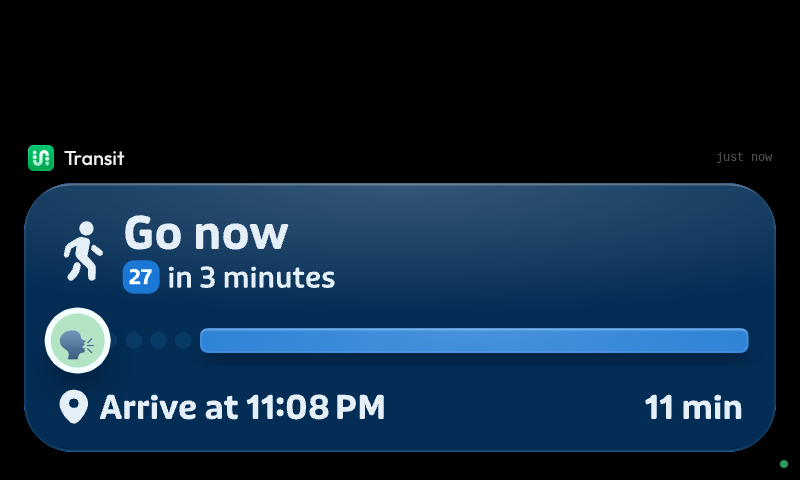
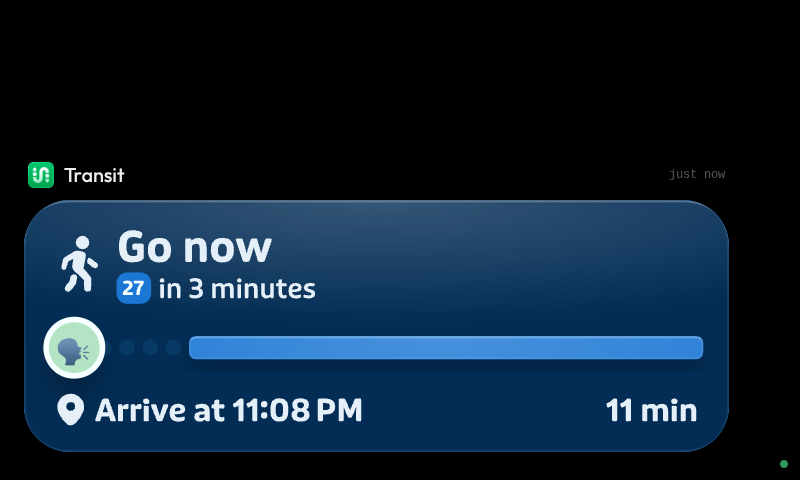
Explain setup problems on the Car Thing; keep content clear of the knob
The extension now diagnoses why it cannot mirror activities (not a Mac, macOS
older than 26, no Full Disk Access, missing extension permission, iPhone Live
Activities off, no paired iPhone, nothing synced yet) and the Car Thing shows
the steps to fix it. Layout reserves the strip the knob covers, and the README
screenshots are composited onto the device frame at its true geometry.

Changed region(s): [[0.0312, 0.2812, 0.9688, 0.9688], [0.9062, 0.3125, 0.9688, 0.3438]]

diff --git a/apps/live-activities/extension/diagnose.ts b/apps/live-activities/extension/diagnose.ts
@@ -1,0 +1,119 @@
+// turns setup mistakes into something a user can act on. the car thing shows these when it has nothing else to show,
+// and the desktop app's log gets the same text.
+
+import { readdirSync, readFileSync } from 'node:fs';
+import { homedir, release } from 'node:os';
+import { join } from 'node:path';
+
+import { parseBplist } from './archive/bplist';
+
+export type Problem = {
+  code: 'not-macos' | 'old-macos' | 'no-full-disk-access' | 'permission' | 'live-activities-off' | 'no-iphone' | 'never-synced';
+  title: string;
+  detail: string;
+  steps: string[];
+};
+
+// darwin 25 is macOS 26, the first release that mirrors iPhone Live Activities
+const MIN_DARWIN = 25;
+
+const GROUPS = () => join(homedir(), 'Library/Group Containers');
+
+const problems = {
+  notMacos: (platform: string): Problem => ({
+    code: 'not-macos',
+    title: 'Live Activities needs a Mac',
+    detail: `This computer runs ${platform}. Only macOS receives your iPhone's Live Activities.`,
+    steps: ['Install the bridgething desktop app on a Mac with macOS 26 or later', 'Install Live Activities there'],
+  }),
+  oldMacos: (darwin: number): Problem => ({
+    code: 'old-macos',
+    title: 'This Mac needs macOS 26',
+    detail: `iPhone Live Activities on the Mac arrived in macOS 26 Tahoe; this Mac runs macOS ${darwin + 1}.`,
+    steps: ['Update the Mac in System Settings > General > Software Update'],
+  }),
+  noFullDiskAccess: (): Problem => ({
+    code: 'no-full-disk-access',
+    title: 'Give bridgething Full Disk Access',
+    detail: 'macOS keeps Live Activities in protected folders that only apps with Full Disk Access can read.',
+    steps: [
+      'On the Mac, open System Settings > Privacy & Security > Full Disk Access',
+      'Turn on bridgething (use + to add it from Applications if it is missing)',
+      'Quit and reopen the bridgething desktop app',
+    ],
+  }),
+  permission: (what: string): Problem => ({
+    code: 'permission',
+    title: 'Live Activities is missing a permission',
+    detail: `The extension was not allowed to ${what}.`,
+    steps: ['In the bridgething desktop app, reinstall Live Activities and approve its permissions'],
+  }),
+  off: (): Problem => ({
+    code: 'live-activities-off',
+    title: 'iPhone Live Activities are off on this Mac',
+    detail: 'The Mac is not receiving Live Activities from your iPhone.',
+    steps: ['On the Mac, open System Settings and search for "Live Activities"', 'Turn on Live Activities from iPhone'],
+  }),
+  noIphone: (): Problem => ({
+    code: 'no-iphone',
+    title: 'No iPhone is connected to this Mac',
+    detail: 'The Mac shows Live Activities from an iPhone signed in to the same Apple Account.',
+    steps: [
+      'Sign in to the same Apple Account on the iPhone (iOS 26 or later) and the Mac',
+      'Keep Bluetooth and Wi-Fi on for both, then search System Settings for "Live Activities"',
+    ],
+  }),
+  neverSynced: (): Problem => ({
+    code: 'never-synced',
+    title: 'Waiting for a first Live Activity',
+    detail: 'This Mac has not received any Live Activity from your iPhone yet.',
+    steps: ['Start one on the iPhone, for example a timer in an app that shows Live Activities', 'It should appear in the Mac menu bar, then here'],
+  }),
+};
+
+const notCapable = (err: unknown) => (err as Error)?.name === 'NotCapable';
+
+/** the first thing standing between this mac and working live activities, or null when everything checks out */
+export function diagnose(): Problem | null {
+  if (process.platform !== 'darwin') return problems.notMacos(process.platform === 'win32' ? 'Windows' : process.platform);
+  try {
+    const darwin = parseInt(release(), 10);
+    if (darwin && darwin < MIN_DARWIN) return problems.oldMacos(darwin);
+  } catch (err) {
+    if (notCapable(err)) return problems.permission('read the macOS version');
+  }
+
+  // listing the container tells the cases apart; sqlite only ever says "unable to open database file"
+  try {
+    readdirSync(join(GROUPS(), 'group.com.apple.liveactivitiesd'));
+  } catch (err) {
+    if (notCapable(err)) return problems.permission('read the Live Activities store');
+    const code = (err as NodeJS.ErrnoException).code;
+    if (code === 'EPERM' || code === 'EACCES') return problems.noFullDiskAccess();
+    if (code !== 'ENOENT') throw err;
+    return settingsProblem() ?? problems.neverSynced();
+  }
+  return settingsProblem();
+}
+
+// control center records whether iphone live activities are on and whether an iphone is paired
+function settingsProblem(): Problem | null {
+  try {
+    const prefs = parseBplist(new Uint8Array(readFileSync(join(homedir(), 'Library/Preferences/com.apple.controlcenter.plist'))));
+    if (!prefs || typeof prefs !== 'object' || Array.isArray(prefs) || prefs instanceof Uint8Array || prefs instanceof Date) return null;
+    if (prefs.RemoteLiveActivitiesEnabled === false) return problems.off();
+    const state = prefs.LiveActivityState;
+    if (state instanceof Uint8Array) {
+      const s = JSON.parse(new TextDecoder().decode(state));
+      if (s.Enabled === false || s.SettingEnabled === false) return problems.off();
+      if (s.CompanionPaired === false) return problems.noIphone();
+    }
+  } catch {}
+  return null;
+}
+
+/** classifies an error from reading the stores after setup looked fine */
+export function problemFromError(err: unknown): Problem {
+  if (notCapable(err)) return problems.permission('read the Live Activities store');
+  return diagnose() ?? problems.noFullDiskAccess();
+}

diff --git a/apps/live-activities/src/App.tsx b/apps/live-activities/src/App.tsx
@@ -19,7 +19,8 @@ type Activity = {
   views?: Views;
 };
 
-type Snapshot = { type: 'snapshot'; at: number; icons: Record<string, string>; activities: Activity[] };
+type Problem = { code: string; title: string; detail: string; steps: string[] };
+type Snapshot = { type: 'snapshot'; at: number; icons: Record<string, string>; activities: Activity[]; problem?: Problem | null };
 
 // the bridge heartbeats every 5s, so silence past this means the mac side is gone
 const STALE_LINK_MS = 12_000;
@@ -29,8 +30,12 @@ const STALE_LINK_MS = 12_000;
 // our backdrop is black, so those are the values used, for every app.
 const UNTINTED_GLASS = '#131313';
 const glass = (c: string) => `hsl(from ${c} h 100% 50%)`;
+// the knob overhangs the right edge of the 800px panel and hides x >= ~753 through the upper half of the screen,
+// so content is laid out in the visible width and the strip under the knob stays empty
 const SCREEN_W = 800;
+const KNOB_INSET = 47;
 const PAD = 24;
+const CONTENT_W = SCREEN_W - KNOB_INSET - PAD * 2;
 
 function since(ms: number | null, now: number): string {
   if (!ms) return '';
@@ -249,6 +254,7 @@ export default function App() {
   const [activities, setActivities] = useState<Activity[]>([]);
   const [icons, setIcons] = useState<Record<string, string>>({});
   const [lastSeen, setLastSeen] = useState(0);
+  const [problem, setProblem] = useState<Problem | null>(null);
   const [now, setNow] = useState(Date.now());
   const views = useRef(new Map<string, { rev: string; views: Views }>());
   const lastHello = useRef(0);
@@ -268,6 +274,7 @@ export default function App() {
       const msg = raw as Snapshot;
       if (msg?.type !== 'snapshot') return;
       setLastSeen(Date.now());
+      setProblem(msg.problem ?? null);
       if (msg.icons) setIcons(prev => ({ ...prev, ...msg.icons }));
       let missing = false;
       const merged = msg.activities.map(a => {
@@ -380,7 +387,8 @@ export default function App() {
               <div key={a.id} data-row data-phase={phase} className="la-row">
                 <div className="la-row-inner">
                   <div
-                    className={`flex flex-col gap-2.5 px-6 py-3 transition-opacity duration-500 ${stale ? 'opacity-50' : ''}`}
+                    style={{ paddingLeft: PAD, paddingRight: PAD + KNOB_INSET }}
+                    className={`flex flex-col gap-2.5 py-3 transition-opacity duration-500 ${stale ? 'opacity-50' : ''}`}
 >
                     <div className="flex items-center gap-2.5 px-1">
                       <Icon src={icons[a.bundleId]} name={a.appName} size={26} />
@@ -390,7 +398,7 @@ export default function App() {
                         {since(a.updatedAt ?? a.startedAt, now)}
                       </span>
                     </div>
-                    <Card a={a} width={SCREEN_W - PAD * 2} maxH={380} />
+                    <Card a={a} width={CONTENT_W} maxH={380} />
                   </div>
                 </div>
               </div>
@@ -399,15 +407,35 @@ export default function App() {
         </div>
       </div>
       <div
+        style={{ paddingRight: KNOB_INSET }}
         className={`pointer-events-none absolute inset-0 flex flex-col items-center justify-center gap-3 transition-opacity duration-500 ${empty ? 'opacity-100' : 'opacity-0'}`}>
-        <div className="font-display text-screen-title font-medium text-soft">No Live Activities</div>
-        <div className="max-w-[560px] text-center font-mono text-hint leading-relaxed text-dim">
-          {conn !== 'open'
-            ? conn
-            : linked
-              ? 'they show up here as soon as your iPhone starts one'
-              : 'needs the bridgething desktop app on a Mac running macOS 26, with full disk access and this app installed there'}
-        </div>
+        {linked && problem ? (
+          <div className="flex max-w-[600px] flex-col gap-4 px-8">
+            <div className="font-display text-screen-title leading-tight font-medium">{problem.title}</div>
+            <div className="text-row text-soft">{problem.detail}</div>
+            <ol className="flex flex-col gap-2">
+              {problem.steps.map((step, i) => (
+                <li key={i} className="flex gap-3 text-row text-near">
+                  <span className="grid h-6 w-6 shrink-0 place-items-center rounded-full bg-neutral-soft font-mono text-hint">
+                    {i + 1}
+                  </span>
+                  <span>{step}</span>
+                </li>
+              ))}
+            </ol>
+          </div>
+        ) : (
+          <>
+            <div className="font-display text-screen-title font-medium text-soft">No Live Activities</div>
+            <div className="max-w-[560px] text-center font-mono text-hint leading-relaxed text-dim">
+              {conn !== 'open'
+                ? conn
+                : linked
+                  ? 'they show up here as soon as your iPhone starts one'
+                  : 'needs the bridgething desktop app on a Mac running macOS 26, with full disk access and this app installed there'}
+            </div>
+          </>
+        )}
       </div>
     </div>
   );

diff --git a/apps/live-activities/extension/main.ts b/apps/live-activities/extension/main.ts
@@ -5,6 +5,7 @@
 import { asJson, defineExtension, json, type Device, type ExtensionContext } from '@bridgething/extension';
 
 import { readArchive, renderView } from './archive/decode';
+import { diagnose, problemFromError, type Problem } from './diagnose';
 import { readActivities, watchActivities, type MirroredActivity } from './source';
 import { bringForward, restore } from './switcher';
 
@@ -22,6 +23,7 @@ type Rendered = { rev: string; views: Partial<Record<ViewKey, View>>; texts: str
 // liveactivitiesd's row lands a second or two before chronod's archive; wait this long before falling back to text
 const ARCHIVE_GRACE_MS = 8000;
 const HEARTBEAT_MS = 5000;
+const RECHECK_MS = 10_000;
 
 const revOf = (a: MirroredActivity) => `${a.archivePath}:${a.archiveMtime}:${a.updatedAt}`;
 
@@ -62,6 +64,15 @@ function start(ctx: ExtensionContext) {
   const rendered = new Map<string, Rendered>();
   const firstSeen = new Map<string, number>();
   let tookOver = false;
+  let problem: Problem | null = null;
+
+  const setProblem = (next: Problem | null) => {
+    if (next?.code === problem?.code) return;
+    problem = next;
+    if (next) ctx.log.error(`${next.title}. ${next.detail} ${next.steps.join('; ')}.`);
+    else ctx.log.info('live activity stores are readable');
+    ctx.broadcast(snapshot('all'));
+  };
 
   const ready = (a: MirroredActivity) => {
     const v = rendered.get(a.id)?.views;
@@ -75,6 +86,7 @@ function start(ctx: ExtensionContext) {
     return json({
       type: 'snapshot',
       at: Date.now(),
+      problem,
       icons: Object.fromEntries(
         shown.filter(a => full(a.id) && icons.get(a.bundleId)).map(a => [a.bundleId, icons.get(a.bundleId)!]),
       ),
@@ -104,6 +116,7 @@ function start(ctx: ExtensionContext) {
     running = true;
     try {
       const next = readActivities();
+      if (problem) setProblem(null);
       const before = new Set(shown.map(a => a.id));
       const changed = new Set<string>();
       for (const a of next) {
@@ -134,7 +147,7 @@ function start(ctx: ExtensionContext) {
       if (started.length && autoOpen()) tookOver = (await bringForward(ctx.webapp.id)) > 0 || tookOver;
       if (ended && tookOver) (await restore(ctx.webapp.id), (tookOver = false));
     } catch (err) {
-      ctx.log.error(`cannot read live activities; is full disk access granted? ${(err as Error).message}`);
+      setProblem(problemFromError(err));
     } finally {
       running = false;
       if (again) (again = false), void refresh();
@@ -149,16 +162,32 @@ function start(ctx: ExtensionContext) {
     if (asJson<{ type?: string }>(message)?.type === 'hello') sendAll(device);
   });
 
-  if (typeof process !== 'undefined' && process.platform !== 'darwin') {
-    ctx.log.warn('live activities are only mirrored on macOS');
-    return () => {};
-  }
-  const stopWatching = watchActivities(() => void refresh());
   const heartbeat = setInterval(() => ctx.broadcast(snapshot(new Set())), HEARTBEAT_MS);
-  void refresh();
+  let stopWatching: (() => void) | undefined;
+  // watching needs the stores to be readable; keep checking until they are, so granting access needs no restart
+  const tryStart = () => {
+    let found: Problem | null;
+    try {
+      found = diagnose();
+    } catch (err) {
+      found = problemFromError(err);
+    }
+    if (found && found.code !== 'never-synced') return setProblem(found);
+    setProblem(found);
+    if (stopWatching) return void refresh();
+    try {
+      stopWatching = watchActivities(() => void refresh());
+    } catch (err) {
+      return setProblem(problemFromError(err));
+    }
+    void refresh();
+  };
+  tryStart();
+  const recheck = setInterval(() => (problem || !stopWatching) && tryStart(), RECHECK_MS);
   return () => {
-    stopWatching();
+    stopWatching?.();
     clearInterval(heartbeat);
+    clearInterval(recheck);
   };
 }
 

diff --git a/README.md b/README.md
@@ -36,10 +36,27 @@ The store lists these permissions before you install:
 | `read:~/Library/Group Containers/group.com.apple.chronod/chronod/remoteArchives` | the views your iPhone rendered for each activity |
 | `read:/System/Library/Fonts`, `read:/Library/Fonts` | system glyphs an archive references but does not embed |
 | `net` | App Store icon lookup, and reaching the Car Thing over USB to bring the app forward |
-| `sys:homedir`, `sys:networkInterfaces` | finding your home folder and the Car Thing's USB link |
+| `read:~/Library/Preferences/com.apple.controlcenter.plist` | checking that iPhone Live Activities are turned on, to explain it if not |
+| `sys:homedir`, `sys:networkInterfaces`, `sys:osRelease` | finding your home folder, the Car Thing's USB link, and the macOS version |
 
 It only reads; it never writes to those folders, and nothing leaves your Mac except to your Car Thing and the
 App Store icon lookup.
+
+## Troubleshooting
+
+When something in the setup is missing, the Car Thing says what and how to fix it, and the desktop app's log has the
+same message. The checks run every 10 seconds, so fixes take effect without reinstalling.
+
+| The Car Thing says | Fix |
+| --- | --- |
+| Live Activities needs a Mac | Run the bridgething desktop app on a Mac; Windows and Linux never receive iPhone Live Activities. |
+| This Mac needs macOS 26 | Update the Mac. iPhone Live Activities on the Mac started with macOS 26 Tahoe. |
+| Give bridgething Full Disk Access | System Settings > Privacy & Security > Full Disk Access, turn on bridgething, then reopen it. |
+| Live Activities is missing a permission | Reinstall the app in the desktop app and approve its permissions. |
+| iPhone Live Activities are off on this Mac | Search System Settings for "Live Activities" and turn on Live Activities from iPhone. |
+| No iPhone is connected to this Mac | Sign in to the same Apple Account on both, iPhone on iOS 26, Bluetooth and Wi-Fi on. |
+| Waiting for a first Live Activity | Start one on the iPhone; once it shows in the Mac menu bar it shows here. |
+| needs the bridgething desktop app on a Mac ... | The Car Thing hears nothing from a Mac: open the desktop app, check this app is installed and enabled there. |
 
 ## How it works
 
